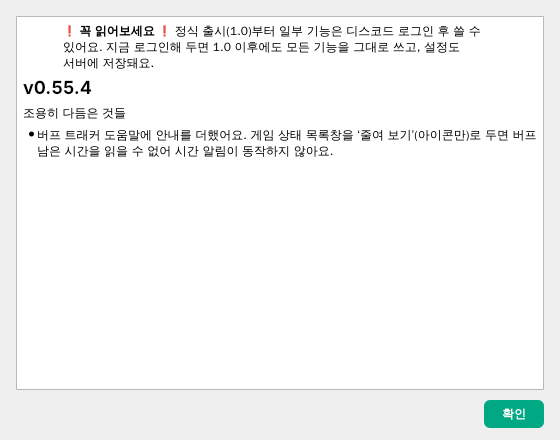
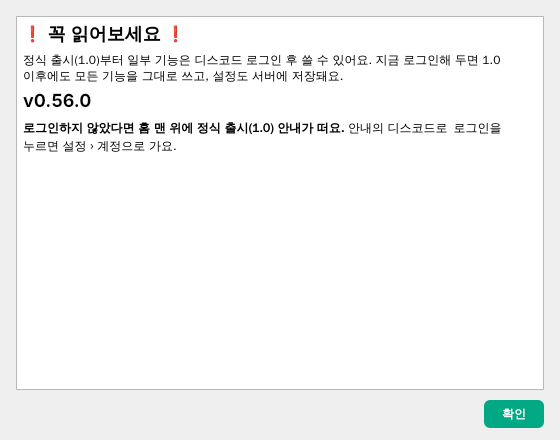
fix: 노트 창 1.0 예고를 버전 섹션과 같은 규격으로 — 제목 헤더 + 일반 문단 (v0.56.0)
사용자 렌더 피드백(11-23): 인용 블록이 뜬금없는 위치·모양. 창 렌더에만 앞붙이고 버전 파싱엔 안 섞임.

Claude-Session: https://claude.ai/code/session_01SbFuD9LBQUw7gFTz2Mmv9g

Changed region(s): [[0.0304, 0.0591, 0.9714, 0.3545], [0.0304, 0.0591, 0.0607, 0.0886]]

diff --git a/tests/test_login_notice.py b/tests/test_login_notice.py
@@ -11,7 +11,10 @@ def test_pure_rules():
     assert login_notice.show_home_notice(False, None)
     assert not login_notice.show_home_notice(True, None)
     assert not login_notice.show_home_notice(False, "2026-11-23")
-    assert login_notice.pinned_notes_block("0.55.4").startswith("> **❗ 꼭 읽어보세요 ❗**")
+    block = login_notice.pinned_notes_block("0.55.4")
+    assert block == f"## ❗ 꼭 읽어보세요 ❗\n\n{login_notice.BODY}\n\n"      # 버전 섹션과 같은 규격(인용 아님)
+    from mabinogi_addon.ui.release_notes import _parse_sections
+    assert _parse_sections(block + "## v0.56.0\n\n노트\n") == [("0.56.0", "노트")]   # 버전 파싱에 안 섞임
     assert login_notice.BODY in login_notice.pinned_notes_block("0.99.9")
     assert login_notice.pinned_notes_block("1.0.0") == "" and login_notice.pinned_notes_block("1.2.3") == ""
 
@@ -111,8 +114,13 @@ def test_release_notes_window_pins_block_before_1_0():
     QApplication.instance() or QApplication([])
     from mabinogi_addon.ui.release_notes import ReleaseNotesDialog
     dlg = ReleaseNotesDialog("## v0.55.4\n\n노트", "0.55.4")
-    text = dlg.findChild(QTextBrowser).toPlainText()
+    browser = dlg.findChild(QTextBrowser)
+    text = browser.toPlainText()
     assert text.startswith("❗ 꼭 읽어보세요 ❗") and login_notice.BODY in text and "노트" in text
+    doc = browser.document()
+    first, version = doc.firstBlock(), doc.findBlock(text.index("v0.55.4"))
+    assert first.blockFormat().headingLevel() == version.blockFormat().headingLevel() == 2   # 버전 헤더와 같은 수준
+    assert first.blockFormat().indent() == 0 and doc.findBlock(text.index(login_notice.BODY)).blockFormat().indent() == 0
     dlg.close()
     dlg = ReleaseNotesDialog("## v1.0.0\n\n노트", "1.0.0")
     assert "꼭 읽어보세요" not in dlg.findChild(QTextBrowser).toPlainText()

diff --git a/src/mabinogi_addon/login_notice.py b/src/mabinogi_addon/login_notice.py
@@ -28,8 +28,9 @@ def before_1_0(version: str) -> bool:
 
 
 def pinned_notes_block(version: str) -> str:
-    """릴리즈 노트 창 맨 위 고정 블록(마크다운). 1.0.0 이상이면 빈 문자열."""
-    return f"> **{TITLE}** {BODY}\n\n" if before_1_0(version) else ""
+    """릴리즈 노트 창 맨 위 고정 섹션(마크다운) — 버전 섹션(`## vX.Y.Z` + 문단)과 같은 규격(사용자 피드백 11-23).
+    창 렌더에만 앞붙인다(release_notes.md에는 안 넣음 — 버전 파서는 `## v숫자`만 버전으로 봄). 1.0.0 이상이면 빈 문자열."""
+    return f"## {TITLE}\n\n{BODY}\n\n" if before_1_0(version) else ""
 
 
 def show_home_notice(logged_in: bool, agreed: str | None) -> bool:

diff --git a/docs/status.md b/docs/status.md
@@ -50,6 +50,7 @@
 - **로그인 1.0 예고(사용자 결정 11-23) → 애드온 DEV 세션(session_01SbFuD9LBQUw7gFTz2Mmv9g)에 전달** — [계정 명세 4.1](account-management-spec.md): 비로그인 홈 맨 위 '❗ 꼭 읽어보세요 ❗' 띠 + 로그인 버튼, ✕는 확인 창(다시 보지 않기 = 1.0 제한 동의, general.loginNoticeAgreed), 앱 릴리즈 노트 창 맨 위 1.0 전까지 고정. 잠금 자체는 1.0에서(목록은 그때 확정).
   **개발 완료(11-23 DEV, v0.56.0)** — `login_notice.py`(문구·판정·노트 고정 블록), `ui/home_page.py` 해외 안내 위 별도 띠(❗ 꼭 읽어보세요 ❗·본문·`디스코드로 로그인`·✕), `ui/main_window.py` refresh_login_notice(비로그인 + 동의 없음, login_changed 따라감)·✕ 확인 창(디스코드로 로그인 → open_account / 다시 보지 않기 → general.loginNoticeAgreed 날짜 / 취소), `config.py`·`cloud_sync.py` 동의 값 이 PC 값(내보내기·동기화 제외, 가져오기·받기로 안 덮음), `ui/release_notes.py` 노트 창 맨 위 고정 블록(1.0.0 미만). 노트 v0.56.0 헤드라인 한 줄(버전 섹션이 있어야 후보를 만들 수 있어서 — '조용히 다듬은 것들'은 안 넣음).
   렌더 `docs/assets/login-notice-20261123/` 1_home_notice·2_home_with_overseas·3_confirm·4_release_notes — 사용자 확인 대기. → `tests/test_login_notice.py` 10(순수 규칙, 비로그인만·로그인 따라감, 해외 띠보다 위, 로그인 버튼, ✕ 세 버튼, 동의 뒤 로그아웃해도 안 뜸, 내보내기·동기화·가져오기, 노트 고정·1.0 이상 없음). 병렬 실행에서 `test_home_page::test_many_needs_scroll_with_dark_scrollbar`가 QApplication 없이 먼저 돌면 abort하던 것 테스트 쪽 보강(예전부터 있던 순서 의존). 배포 검사 0.56.0 329 통과.
+  **렌더 피드백(사용자 11-23 — 홈 띠·확인 창 확정, 노트만)**: 노트 창 고정 블록을 인용(> **제목** 본문)에서 버전 섹션 규격으로 — `## ❗ 꼭 읽어보세요 ❗` + 일반 문단(창 렌더에만 앞붙임, `_parse_sections`에 안 섞임 확인). 렌더 4_release_notes(첫 실행, v0.56.0 아래)·5_release_notes_all(전체 보기).
 - **사용자 결정(11-23, 기획 세션 남은 작업 정리)** — ① 상태목록 '줄여 보기'(아이콘만)에서는 버프 시간을 못 읽는다는 안내 → 버프 도움말에 넣기(개발 전달). ② NA 도르카·투아림 −3px 재시도(11-18 개발 대기)는 하지 않음(폐기 — NA 사용 자제 결정). ③ CI 글꼴 설정 fonts-ci.conf를 저장소에 넣고 배포 검사가 자동으로 쓰게(개발 전달). ④ 음악 버프 '무리아스의 성수' 툴팁·명세 '소나타 +6' 폐기. ⑤ 후보 빌드 시간 검토: 최근 verify-only 4회 8:30~9:44(목표 10분 안 이미 충족) — 더 줄이는 건 검토만. ⑥ status.md 분리·블랙박스 반복 채움 보정은 설명 후 결정 대기.
   **①·③ 개발 완료(11-23 DEV, v0.55.4)** — ① `ui/feature_copy.py` 버프 트래커 도움말 '알아두세요'에 '줄여 보기'(아이콘만) 안내 한 줄(자동 감지·팝업 없음), 노트 v0.55.4 → `tests/test_buff_detector.py::test_buff_help_mentions_compact_status_view`.
   ③ `packaging/fonts-ci.conf`(CI에 없는 Inter·WenQuanYi·Unifont·Nanum·IPA 제외 → 한글 Noto Sans CJK KR·라틴 DejaVu Sans, fc-match 확인), `scripts/run_release_checks.py` 로컬에서 FONTCONFIG_FILE이 비면 자동 적용(직접 지정·CI는 그대로), fc-list에 Noto Sans CJK가 없으면 설치 안내 경고. CLAUDE.md QA 규칙 갱신. 검증: 이 컨테이너에 fonts-noto-cjk 설치 후 test_music_buff·test_craft_width·test_guide_images·test_navigation_all_widths 64 통과(이전 $S 설정은 Nanum이 한글을 맡아 CI와 달랐고 test_craft_width[20] 1건 실패 — 기본 글꼴은 통과). → `tests/test_qa_speed_guards.py`(자동 적용·직접 지정 유지·CI 그대로, 제외 목록). 배포 검사 0.55.4(자동 CI 글꼴) 331 통과.
